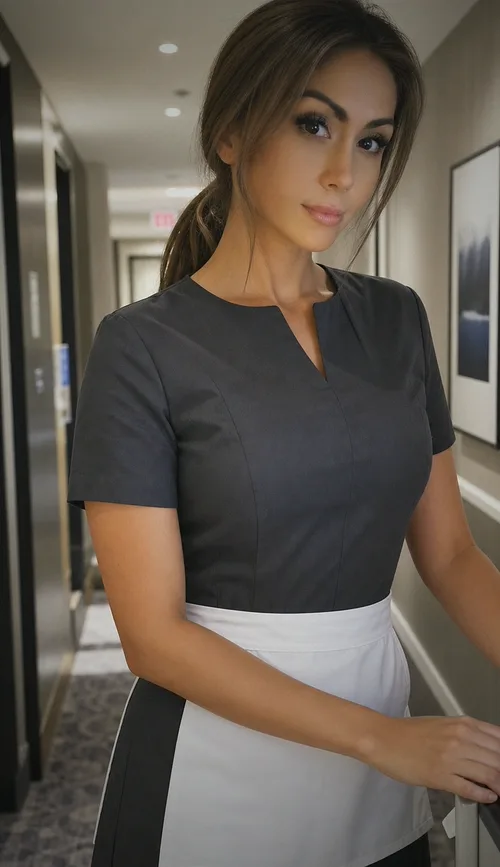
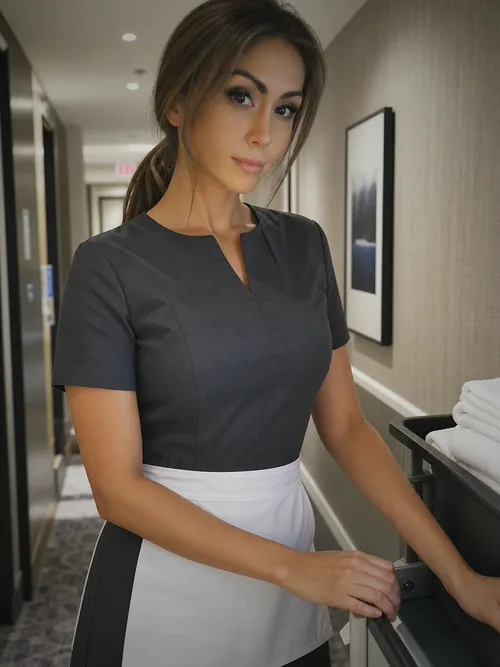
Publish site update

diff --git a/assets/css/site.css b/assets/css/site.css
@@ -1685,22 +1685,22 @@ button { font: inherit; }
    Holds either the placeholder below or Tiffany's actual photograph, at the
    SAME ratio, so dropping the real image in cannot change the page's layout.
 
-   835/1448, matching the delivered asset exactly, so object-fit has nothing
-   left to crop.
+   3/4, matching the source's own 1086x1448, so the frame shows the whole
+   photograph and object-fit has nothing left to crop.
 
-   Why that ratio and not the source's own 3/4: the generated source carries a
-   third forearm across its lower right, and that region is also where the
-   towel cart sits. They overlap, so the widest frame that excludes the
-   artefact is a vertical cut at x=835 — which takes the cart with it. The
-   ratio is therefore dictated by the defect, not by taste.
+   The source is used as delivered, by decision: cropping past the generated
+   third forearm in its lower right also removed the towel cart (they share
+   that corner), and patching over it with delogo produced a hard-edged smear
+   that read as censorship. Both fixes cost more than the flaw. If the source
+   is ever regenerated without the extra limb, nothing here needs to change.
 
-   Do NOT patch such a region with delogo. That was tried: it interpolates
-   from the surrounding pixels and, over an area this large and this
-   structured, produces a hard-edged rectangular smear that reads as
-   censorship. It looked passable at review scale and obvious at full size,
-   which is the trap — judge a repair at the size it will be seen. */
+   Note for anyone tempted by delogo on a region this size: it interpolates
+   inward from a region's borders, so across a quarter of the frame's width —
+   over a cart rail and folded towels — it can only average into a blur. And
+   it looked acceptable on a downscaled contact sheet while being obvious at
+   full size, which is the trap. Judge a repair at the size it will be seen. */
 .ms-portrait,
-.ms-photo-slot { aspect-ratio: 835 / 1448; }
+.ms-photo-slot { aspect-ratio: 3 / 4; }
 
 .ms-portrait {
   position: relative;

diff --git a/about.html b/about.html
@@ -106,15 +106,14 @@
             <p class="ms-prose__action"><a class="ms-btn ms-btn--accent" href="services.html">See our services</a></p>
           </div>
 
-          <!-- 835x1448: the widest crop of the source that excludes the
-               generated third forearm across its lower right. .ms-portrait
-               carries the same ratio, so object-fit has nothing left to crop. -->
+          <!-- The source as delivered, 1086x1448 at its own 3:4 ratio.
+               .ms-portrait matches, so object-fit has nothing left to crop. -->
           <div class="ms-portrait">
             <img
               src="assets/img/tiffany.webp"
               srcset="assets/img/tiffany.webp 500w, assets/img/tiffany@2x.webp 800w"
               sizes="(min-width: 56em) 30rem, 100vw"
-              width="500" height="867"
+              width="500" height="667"
               alt="Tiffany, the owner of Make it Squeaky">
           </div>
         </div>
